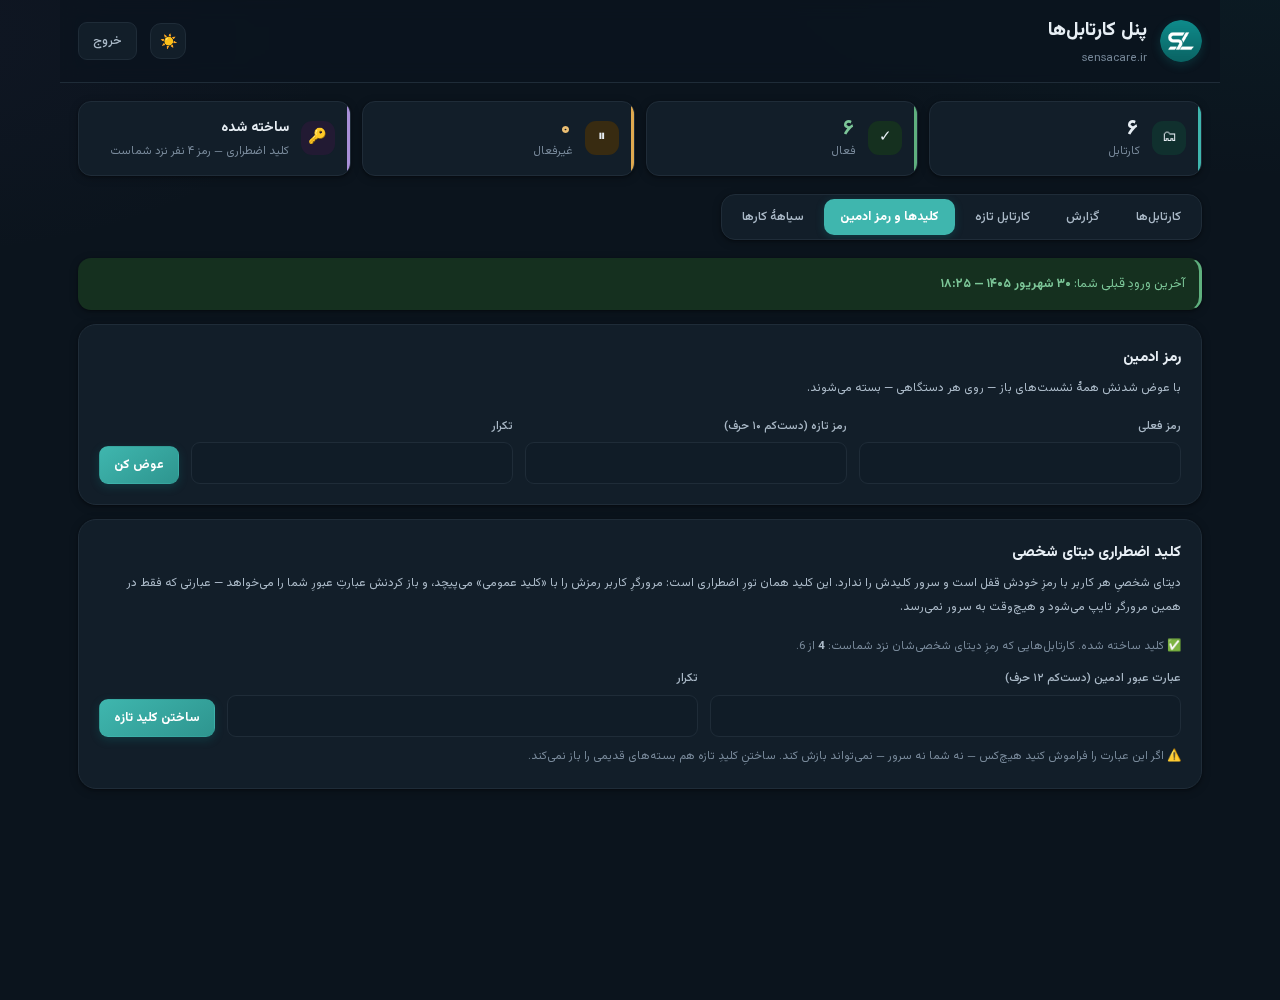
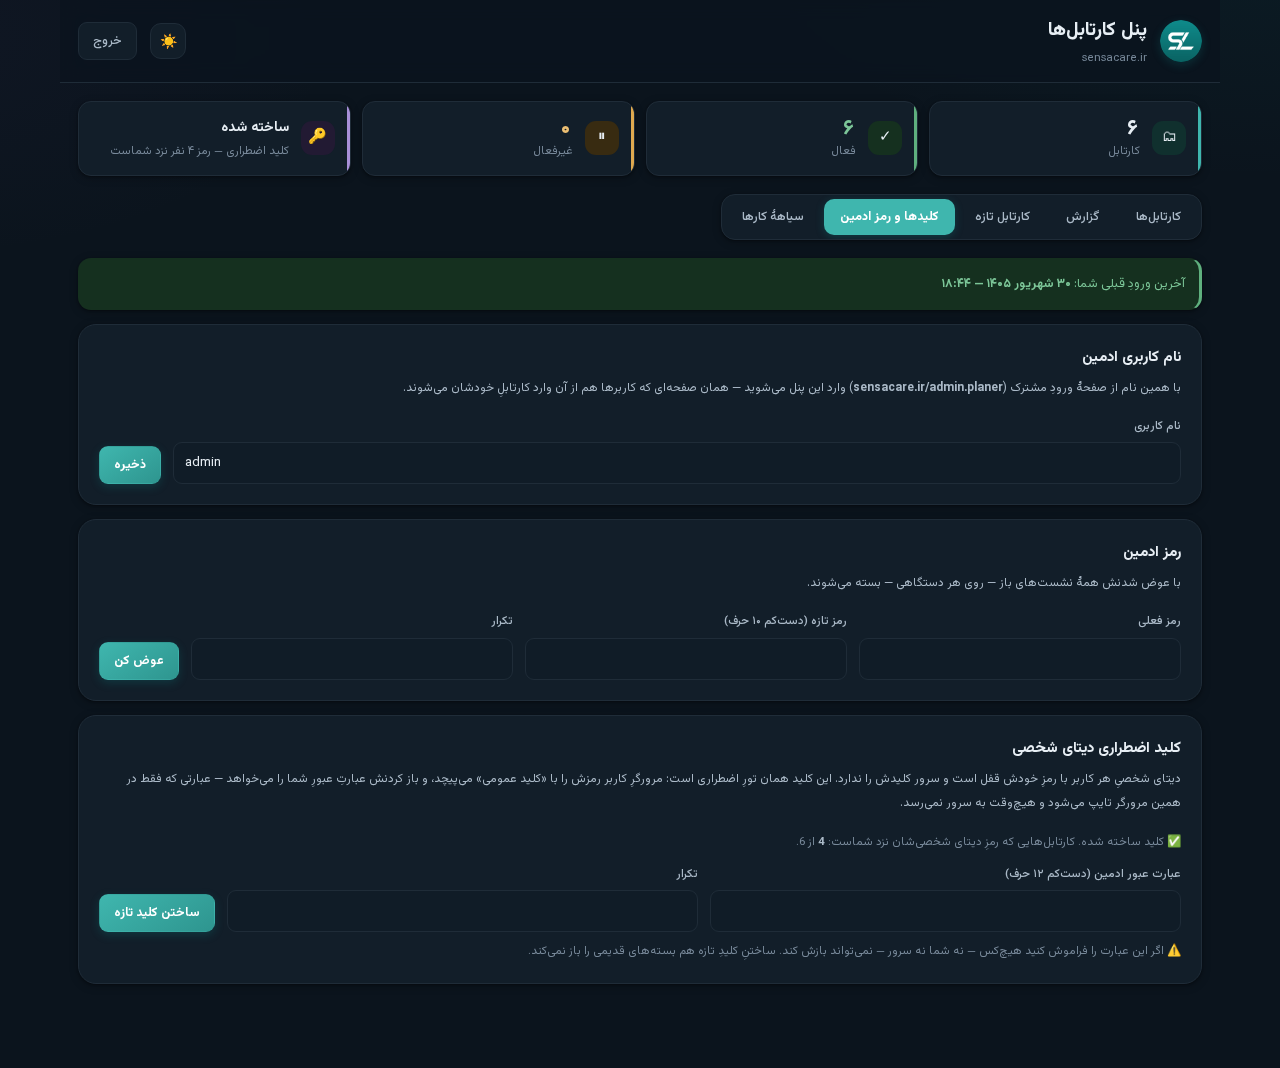
یک صفحهٔ ورود برای همه: نام کاربری و رمز
sensacare.ir/admin.planer حالا صفحهٔ ورودِ مشترک است. هر کس نام
کاربری و رمزش را میزند و به کارتابلِ خودش میرود؛ ادمین با نام
کاربریِ خودش همانجا وارد پنل میشود.

- نام کاربری هنگام ساختنِ کارتابل گرفته میشود (خالی = مثل آدرس)
  و از «ویرایش» هم عوض میشود؛ تکراری بودنش — چه با کاربرِ دیگر،
  چه با خودِ ادمین — رد میشود.
- نام کاربریِ ادمین هم از سربرگ «کلیدها و رمز ادمین» عوض میشود و
  بارِ اول موقعِ راهاندازی انتخاب میگردد (پیشفرض admin).
- پیامِ خطا برای «نام کاربریِ نبود» و «رمز غلط» یکی است، وگرنه همین
  صفحه میشد فهرستی از نامهای کاربریِ روی سایت.
- کارتابلِ بسته یا مهلتتمامشده وارد نمیشود، ولی این را فقط بعد از
  رمزِ درست میگوید.
- «رمزم را فراموش کردهام» هم از همین صفحه کار میکند؛ رمزِ تازه مثل
  همیشه فقط به تلگرام میرود.
- درِ خودِ هر کارتابل مثل قبل باز است، پس نشانیهای ذخیرهشده
  از کار نمیافتند.

Claude-Session: https://claude.ai/code/session_012n1VY61L8Ebo9ZzMtPve7j

diff --git a/src/admin-planer.js b/src/admin-planer.js
@@ -14,7 +14,8 @@
 import {
   json, bad, hashPassword, checkPassword, makeSession, readSession, cookieHeader,
   getSetting, setSetting, all, one, run, newPassword, panelBySlug, allPanels,
-  PANELS, kartablBot, tgMessage, FEATURES, VIEWS, isFeature, enabledViews
+  PANELS, kartablBot, tgMessage, FEATURES, VIEWS, isFeature, enabledViews, panelByUser,
+  handleKartabl
 } from './kartabl.js';
 import { JOBS } from './kartabl-jobs.js';
 
@@ -29,6 +30,20 @@ const ADMIN = {
 };
 
 const SLUG_RE = /^[a-z0-9][a-z0-9-]{1,30}$/;
+/* نام کاربری کمی بازتر از آدرس است — نقطه و زیرخط هم میگیرد — چون
+   آدرس در URL مینشیند و این یکی فقط در فرمِ ورود. */
+const USER_RE = /^[a-z0-9][a-z0-9._-]{1,30}$/;
+const ADMIN_USER_KEY = 'adminPlanerUser';
+const DEFAULT_ADMIN_USER = 'admin';
+const adminUser = env => getSetting(env, ADMIN_USER_KEY, DEFAULT_ADMIN_USER);
+
+/* نامِ کاربری نباید تکراری باشد؛ نه با کاربرِ دیگر، نه با خودِ ادمین.
+   وگرنه یکی از آن دو دیگر نمیتواند وارد شود. */
+async function userTaken(env, user, exceptSlug) {
+  if (user === (await adminUser(env)).toLowerCase()) return true;
+  const p = await panelByUser(env, user);
+  return !!(p && p.slug !== exceptSlug);
+}
 /* آدرسهایی که قبلاً مالِ خودِ سایتاند و نباید کارتابل شوند */
 const RESERVED = new Set(['admin', 'admin.planer', 'api', 'f', 'v', 'assets', 'cart',
   'checkout', 'shop', 'product', 'products', 'blog', 'about', 'contact', 'login',
@@ -53,6 +68,7 @@ function freshConfig(slug, name, kind, job, vault) {
     folder: 'کارتابل ' + name,
     zip: 'kartabl-' + slug + '-',
     job: job || '',
+    user: slug,
     vault: vault,
     keys: {
       state: slug + ':state', db: slug + ':db',
@@ -133,6 +149,12 @@ export async function handleAdminPlaner(env, req, p, m, body, helpers) {
     if (!codeCheck.ok) return bad('کدِ راهاندازی درست نیست.', 403);
     const pass = String(body.password || '').trim();
     if (pass.length < 10) return bad('رمزِ ادمین دستکم ۱۰ حرف باشد.');
+    /* نامِ کاربریِ ادمین هم همینجا انتخاب میشود؛ نگفته باشد «admin». */
+    const user = (String(body.user || '').trim() || DEFAULT_ADMIN_USER).toLowerCase();
+    if (!USER_RE.test(user))
+      return bad('نام کاربری فقط حروف انگلیسی کوچک، عدد، نقطه، خط تیره و زیرخط — بین ۲ تا ۳۱ حرف.');
+    if (await panelByUser(env, user)) return bad('این نام کاربری مالِ یکی از کارتابلهاست.');
+    await setSetting(env, ADMIN_USER_KEY, user);
     await setSetting(env, ADMIN.keys.pass, await hashPassword(pass));
     await setSetting(env, ADMIN.keys.gen, 1);
     await setSetting(env, 'login:admin.planer', Date.now());
@@ -140,6 +162,74 @@ export async function handleAdminPlaner(env, req, p, m, body, helpers) {
     await log(env, 'setup', '', '');
     return json({ ok: true, lastLogin: 0 }, 200,
       { 'Set-Cookie': cookieHeader(ADMIN, await makeSession(env, ADMIN, 1), 1) });
+  }
+
+  /* ---------- ورودِ مشترک ----------
+     یک صفحهٔ ورود برای همه: کاربر نام کاربری و رمزش را میزند و به
+     کارتابلِ خودش میرود؛ ادمین همانجا وارد پنل میشود. چون هر دو از
+     یک فرم میآیند، پیامِ خطا هم یکی است — وگرنه همین صفحه میشد
+     فهرستی از اینکه کدام نام کاربری روی سایت هست.
+
+     نشستی هم که اینجا ساخته میشود دقیقاً همان نشستِ خودِ کارتابل
+     است (همان کوکی، همان نسلِ رمز)، پس عوضشدنِ رمز از هر جایی که
+     باشد این ورود را هم باطل میکند. */
+  if (p === '/signin' && m === 'POST') {
+    /* سقف را دستودلبازتر از یک کارتابلِ تنها گرفتهایم: اینجا همهٔ
+       کاربرها از یک فرم وارد میشوند و چند نفرشان میتوانند پشتِ یک
+       IP باشند. جلوی حدسِ پیاپیِ رمز را هم PBKDF2 و هم مکثِ خودِ
+       بررسیِ رمز میگیرد. */
+    const rl = await rateLimit(env, 'adminplaner-signin:' + clientIp(req), 30, 900);
+    if (!rl.ok) return bad('تلاش زیاد بود. چند دقیقه صبر کنید.', 429);
+    const user = String(body.user || '').trim().toLowerCase();
+    const pass = String(body.password || '');
+    const nope = () => bad('نام کاربری یا رمز درست نیست.', 401);
+    if (!user || !pass) return nope();
+    const days = body.remember ? 7 : 1;
+
+    if (user === (await adminUser(env)).toLowerCase()) {
+      const stored = await getSetting(env, ADMIN.keys.pass, '');
+      if (!stored) return bad('هنوز رمزِ ادمین گذاشته نشده.', 409);
+      const check = await checkPassword(pass, stored);
+      if (!check.ok) return check.status === 429 ? bad(check.error, 429) : nope();
+      const prev = await getSetting(env, 'login:admin.planer', 0);
+      await setSetting(env, 'login:admin.planer', Date.now());
+      await log(env, 'login', '', 'ورودِ مشترک');
+      return json({ ok: true, admin: true, name: 'ادمین', lastLogin: prev || 0 }, 200,
+        { 'Set-Cookie': cookieHeader(ADMIN, await makeSession(env, ADMIN, days), days) });
+    }
+
+    const panel = await panelByUser(env, user);
+    if (!panel) return nope();
+    const stored = await getSetting(env, panel.keys.pass, '');
+    if (!stored) return nope();
+    const check = await checkPassword(pass, stored);
+    if (!check.ok) return check.status === 429 ? bad(check.error, 429) : nope();
+    /* رمزِ درست را اول بررسی میکنیم و بعد میگوییم کارتابل بسته است:
+       اینطور کسی که رمز را ندارد از پیام هم چیزی نمیفهمد. */
+    if (panel.disabled)
+      return bad(panel.expired && !panel.manualOff
+        ? 'مهلتِ استفاده از این کارتابل تمام شده. با مدیر تماس بگیرید.'
+        : 'این کارتابل فعلاً بسته است. با مدیر تماس بگیرید.', 403);
+    const loginKey = 'login:' + panel.slug;
+    const prev = await getSetting(env, loginKey, 0);
+    await setSetting(env, loginKey, Date.now());
+    return json({ ok: true, admin: false, go: panel.page, name: panel.name,
+                  lastLogin: prev || 0 }, 200,
+      { 'Set-Cookie': cookieHeader(panel, await makeSession(env, panel, days), days) });
+  }
+
+  /* فراموشیِ رمز از همین صفحه: نام کاربری را میگیریم تا بفهمیم کدام
+     کارتابل، و بقیهاش دقیقاً همان مسیرِ فراموشیِ خودِ کارتابل است —
+     رمزِ تازه فقط به تلگرام میرود، نه به این صفحه. */
+  if (p === '/forgot' && m === 'POST') {
+    const rl = await rateLimit(env, 'adminplaner-forgot:' + clientIp(req), 6, 3600);
+    if (!rl.ok) return bad('درخواستها زیاد شد. یک ساعت دیگر.', 429);
+    const user = String(body.user || '').trim().toLowerCase();
+    if (!user) return bad('اول نام کاربری را بنویسید.');
+    const panel = await panelByUser(env, user);
+    if (!panel) return bad('چنین نام کاربریای نیست.', 404);
+    if (panel.disabled) return bad('این کارتابل فعلاً بسته است. با مدیر تماس بگیرید.', 403);
+    return handleKartabl(env, req, panel, '/forgot', 'POST', body, helpers);
   }
 
   if (p === '/login' && m === 'POST') {
@@ -162,7 +252,8 @@ export async function handleAdminPlaner(env, req, p, m, body, helpers) {
   const session = await readSession(env, ADMIN, req);
   if (p === '/me')
     return json(session
-      ? { in: true, lastLogin: await getSetting(env, 'login:admin.planer', 0) }
+      ? { in: true, lastLogin: await getSetting(env, 'login:admin.planer', 0),
+          user: await adminUser(env) }
       : { in: false, needsSetup: !(await getSetting(env, ADMIN.keys.pass, '')) });
   if (!session) return bad('وارد نشدهاید.', 401);
 
@@ -176,6 +267,7 @@ export async function handleAdminPlaner(env, req, p, m, body, helpers) {
       try { c = JSON.parse(r.cfg); } catch (e) { /* خرابش را هم نشان بده */ }
       items.push({
         slug: r.slug, name: r.name, kind: r.kind, job: c.job || '',
+        user: String(c.user || r.slug).toLowerCase(),
         /* «disabled» یعنی ادمین با دست بسته؛ «closed» یعنی عملاً بسته
            است — چه با دست، چه چون مهلتش سر رسیده. */
         disabled: !!c.disabled,
@@ -196,6 +288,7 @@ export async function handleAdminPlaner(env, req, p, m, body, helpers) {
     for (const b of Object.values(PANELS))
       if (!known.has(b.slug))
         items.push({ slug: b.slug, name: b.name, kind: b.kind, job: '', vault: DEFAULT_VAULT,
+                     user: b.user || b.slug,
                      disabled: false, closed: false, core: true, off: [], until: 0,
                      views: (VIEWS[b.kind] || []).map(v => v.id),
                      url: b.page, created: 0, builtin: true,
@@ -249,6 +342,13 @@ export async function handleAdminPlaner(env, req, p, m, body, helpers) {
     if (Object.values(PANELS).some(b => b.slug === slug))
       return bad('کارتابلی با این آدرس هست.');
 
+    /* نام کاربری: اگر چیزی نگفته باشد، همان آدرس. */
+    const user = (String(body.user || '').trim() || slug).toLowerCase();
+    if (!USER_RE.test(user))
+      return bad('نام کاربری فقط حروف انگلیسی کوچک، عدد، نقطه، خط تیره و زیرخط — بین ۲ تا ۳۱ حرف.');
+    if (await userTaken(env, user))
+      return bad('این نام کاربری گرفته شده.');
+
     /* تیکِ ادمین در همان فرمِ ساخت هم خوانده میشود؛ اگر چیزی نگفته
        باشد، پیشنهادِ شغل مینشیند. */
     const allViews = (VIEWS[kind] || []).map(v => v.id);
@@ -256,6 +356,7 @@ export async function handleAdminPlaner(env, req, p, m, body, helpers) {
       ? body.views.filter(v => allViews.includes(v)) : null;
     const vault = cleanVault(body.vault);
     const cfg = freshConfig(slug, name, kind, job, vault.length ? vault : DEFAULT_VAULT);
+    cfg.user = user;
     if (views) cfg.views = views;
     const pass = String(body.password || '').trim() || newPassword();
     await run(env, 'INSERT INTO planners(slug,name,kind,cfg,created) VALUES(?,?,?,?,?)',
@@ -264,7 +365,7 @@ export async function handleAdminPlaner(env, req, p, m, body, helpers) {
     await setSetting(env, cfg.keys.gen, 1);
     await log(env, 'create', slug, kind + (job ? '/' + job : ''));
     /* رمز فقط همین یکبار برمیگردد — جایی ذخیره نمیشود. */
-    return json({ ok: true, slug, url: '/' + slug + '/', password: pass });
+    return json({ ok: true, slug, url: '/' + slug + '/', user, password: pass });
   }
 
   /* از اینجا به بعد همه دربارهٔ یک کارتابلِ مشخصاند */
@@ -292,6 +393,13 @@ export async function handleAdminPlaner(env, req, p, m, body, helpers) {
       if (typeof body.job === 'string') {
         if (body.job && !JOBS[body.job]) return bad('شغل انتخابشده را نمیشناسم.');
         cfg.job = body.job;
+      }
+      if (typeof body.user === 'string' && body.user.trim()) {
+        const user = body.user.trim().toLowerCase();
+        if (!USER_RE.test(user))
+          return bad('نام کاربری فقط حروف انگلیسی کوچک، عدد، نقطه، خط تیره و زیرخط — بین ۲ تا ۳۱ حرف.');
+        if (await userTaken(env, user, slug)) return bad('این نام کاربری گرفته شده.');
+        cfg.user = user;
       }
       if (body.days !== undefined) {
         /* عددِ روز میگیریم و تاریخِ پایان را حساب میکنیم؛ خالی یا صفر
@@ -421,6 +529,18 @@ export async function handleAdminPlaner(env, req, p, m, body, helpers) {
   }
 
   /* ---- رمزِ خودِ ادمین ---- */
+  /* ---- نام کاربریِ خودِ ادمین ---- */
+  if (p === '/admin-user' && m === 'POST') {
+    const user = String(body.user || '').trim().toLowerCase();
+    if (!USER_RE.test(user))
+      return bad('نام کاربری فقط حروف انگلیسی کوچک، عدد، نقطه، خط تیره و زیرخط — بین ۲ تا ۳۱ حرف.');
+    if (user !== (await adminUser(env)).toLowerCase() && await panelByUser(env, user))
+      return bad('این نام کاربری مالِ یکی از کارتابلهاست.');
+    await setSetting(env, ADMIN_USER_KEY, user);
+    await log(env, 'admin-user', '', user);
+    return json({ ok: true, user });
+  }
+
   if (p === '/password' && m === 'POST') {
     const stored = await getSetting(env, ADMIN.keys.pass, '');
     const check = await checkPassword(String(body.current || ''), stored);

diff --git a/src/kartabl.js b/src/kartabl.js
@@ -29,7 +29,7 @@ import { buildAiContext, askKartablAI, looksPlannerRelated, CLAUDE_MODEL } from 
    «kartablPassHash»)، وگرنه دادهٔ زندهاش باید جابهجا میشد. */
 export const PANELS = {
   it: {
-    id: 'siamak', slug: 'siamak', name: 'سیامک', kind: 'it', api: 'kartabl',
+    id: 'siamak', slug: 'siamak', user: 'siamak', name: 'سیامک', kind: 'it', api: 'kartabl',
     tpl: { title: 'کارتابل ماهانه سیامک', name: 'سیامک', api: '/api/kartabl',
            icon: '/icon-siamak.2.png', store: 'it-manager-planner-v1', idb: 'planner-fs-db',
            dbcache: 'it-manager-db-cache-v19', filejson: 'کارتابل-IT-داده.json',
@@ -48,7 +48,7 @@ export const PANELS = {
     })
   },
   sina: {
-    id: 'sina', slug: 'sina', name: 'سینا', kind: 'fin', api: 'sina',
+    id: 'sina', slug: 'sina', user: 'sina', name: 'سینا', kind: 'fin', api: 'sina',
     tpl: { title: 'کارتابل ماهانه سینا', name: 'سینا', api: '/api/sina',
            icon: '/icon-sina.2.png', store: 'finance-planner-v1', idb: 'finance-fs-db',
            dbcache: 'finance-db-cache-v1', filejson: 'کارتابل-مالی-داده.json',
@@ -67,7 +67,7 @@ export const PANELS = {
     })
   },
   reza: {
-    id: 'reza', slug: 'reza', name: 'رضا', kind: 'fin', api: 'reza',
+    id: 'reza', slug: 'reza', user: 'reza', name: 'رضا', kind: 'fin', api: 'reza',
     tpl: { title: 'کارتابل ماهانه رضا', name: 'رضا', api: '/api/reza',
            icon: '/icon-reza.2.png', store: 'reza-planner-v1', idb: 'reza-fs-db',
            dbcache: 'reza-db-cache-v1', filejson: 'کارتابل-رضا-داده.json',
@@ -198,6 +198,9 @@ export function panelFromRow(row) {
   const expired = until > 0 && Date.now() > until;
   return {
     id: row.slug, slug: row.slug, name: row.name, kind,
+    /* نامِ کاربری برای صفحهٔ ورودِ مشترک. پیشفرضش همان آدرسِ کارتابل
+       است، ولی ادمین میتواند چیزِ دیگری بگذارد. */
+    user: String(c.user || row.slug).toLowerCase(),
     title: c.title, page: '/' + row.slug + '/', api: c.api || row.slug,
     cookie: c.cookie, icon: (c.icon || '').replace(/^\//, ''),
     tpl: { title: c.title, name: row.name, api: '/api/' + (c.api || row.slug),
@@ -240,6 +243,14 @@ export async function allPanels(env) {
 
 export async function panelBySlug(env, slug) {
   return (await allPanels(env)).find(p => p.slug === slug) || null;
+}
+
+/* ورودِ مشترک با نام کاربری: یک صفحهٔ ورود برای همه، و هر کس به
+   کارتابلِ خودش میرسد. */
+export async function panelByUser(env, user) {
+  const u = String(user || '').trim().toLowerCase();
+  if (!u) return null;
+  return (await allPanels(env)).find(p => (p.user || p.slug) === u) || null;
 }
 
 export async function panelByApi(env, api) {
